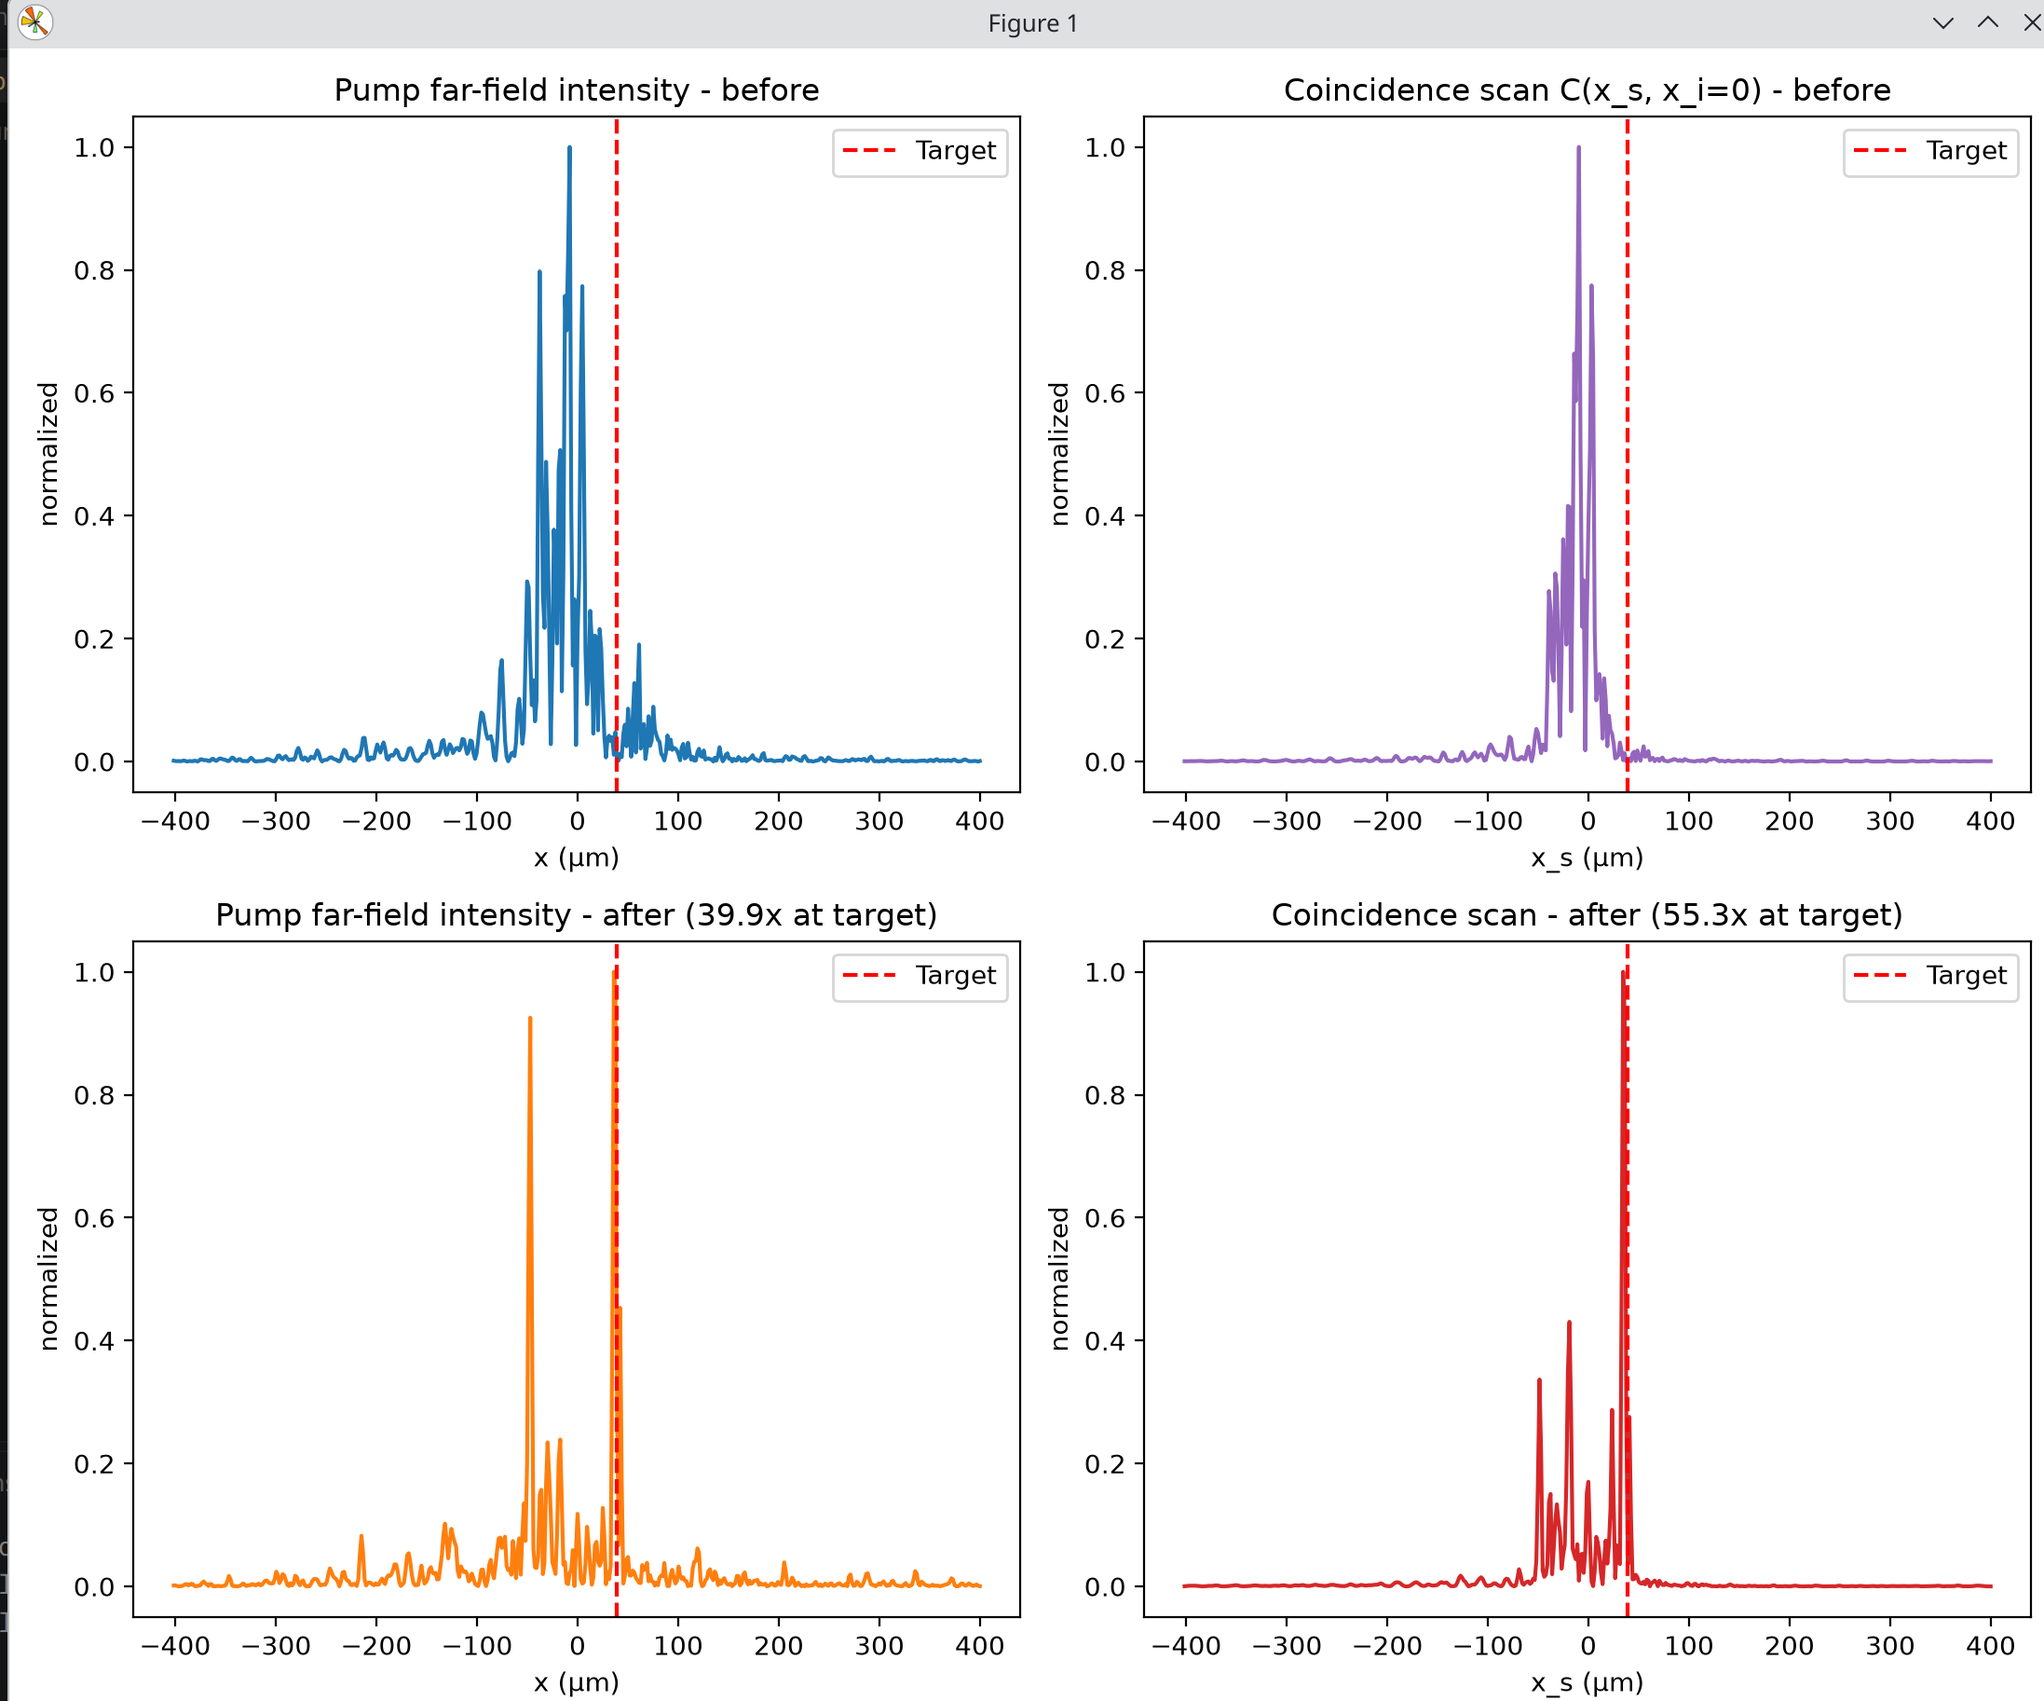
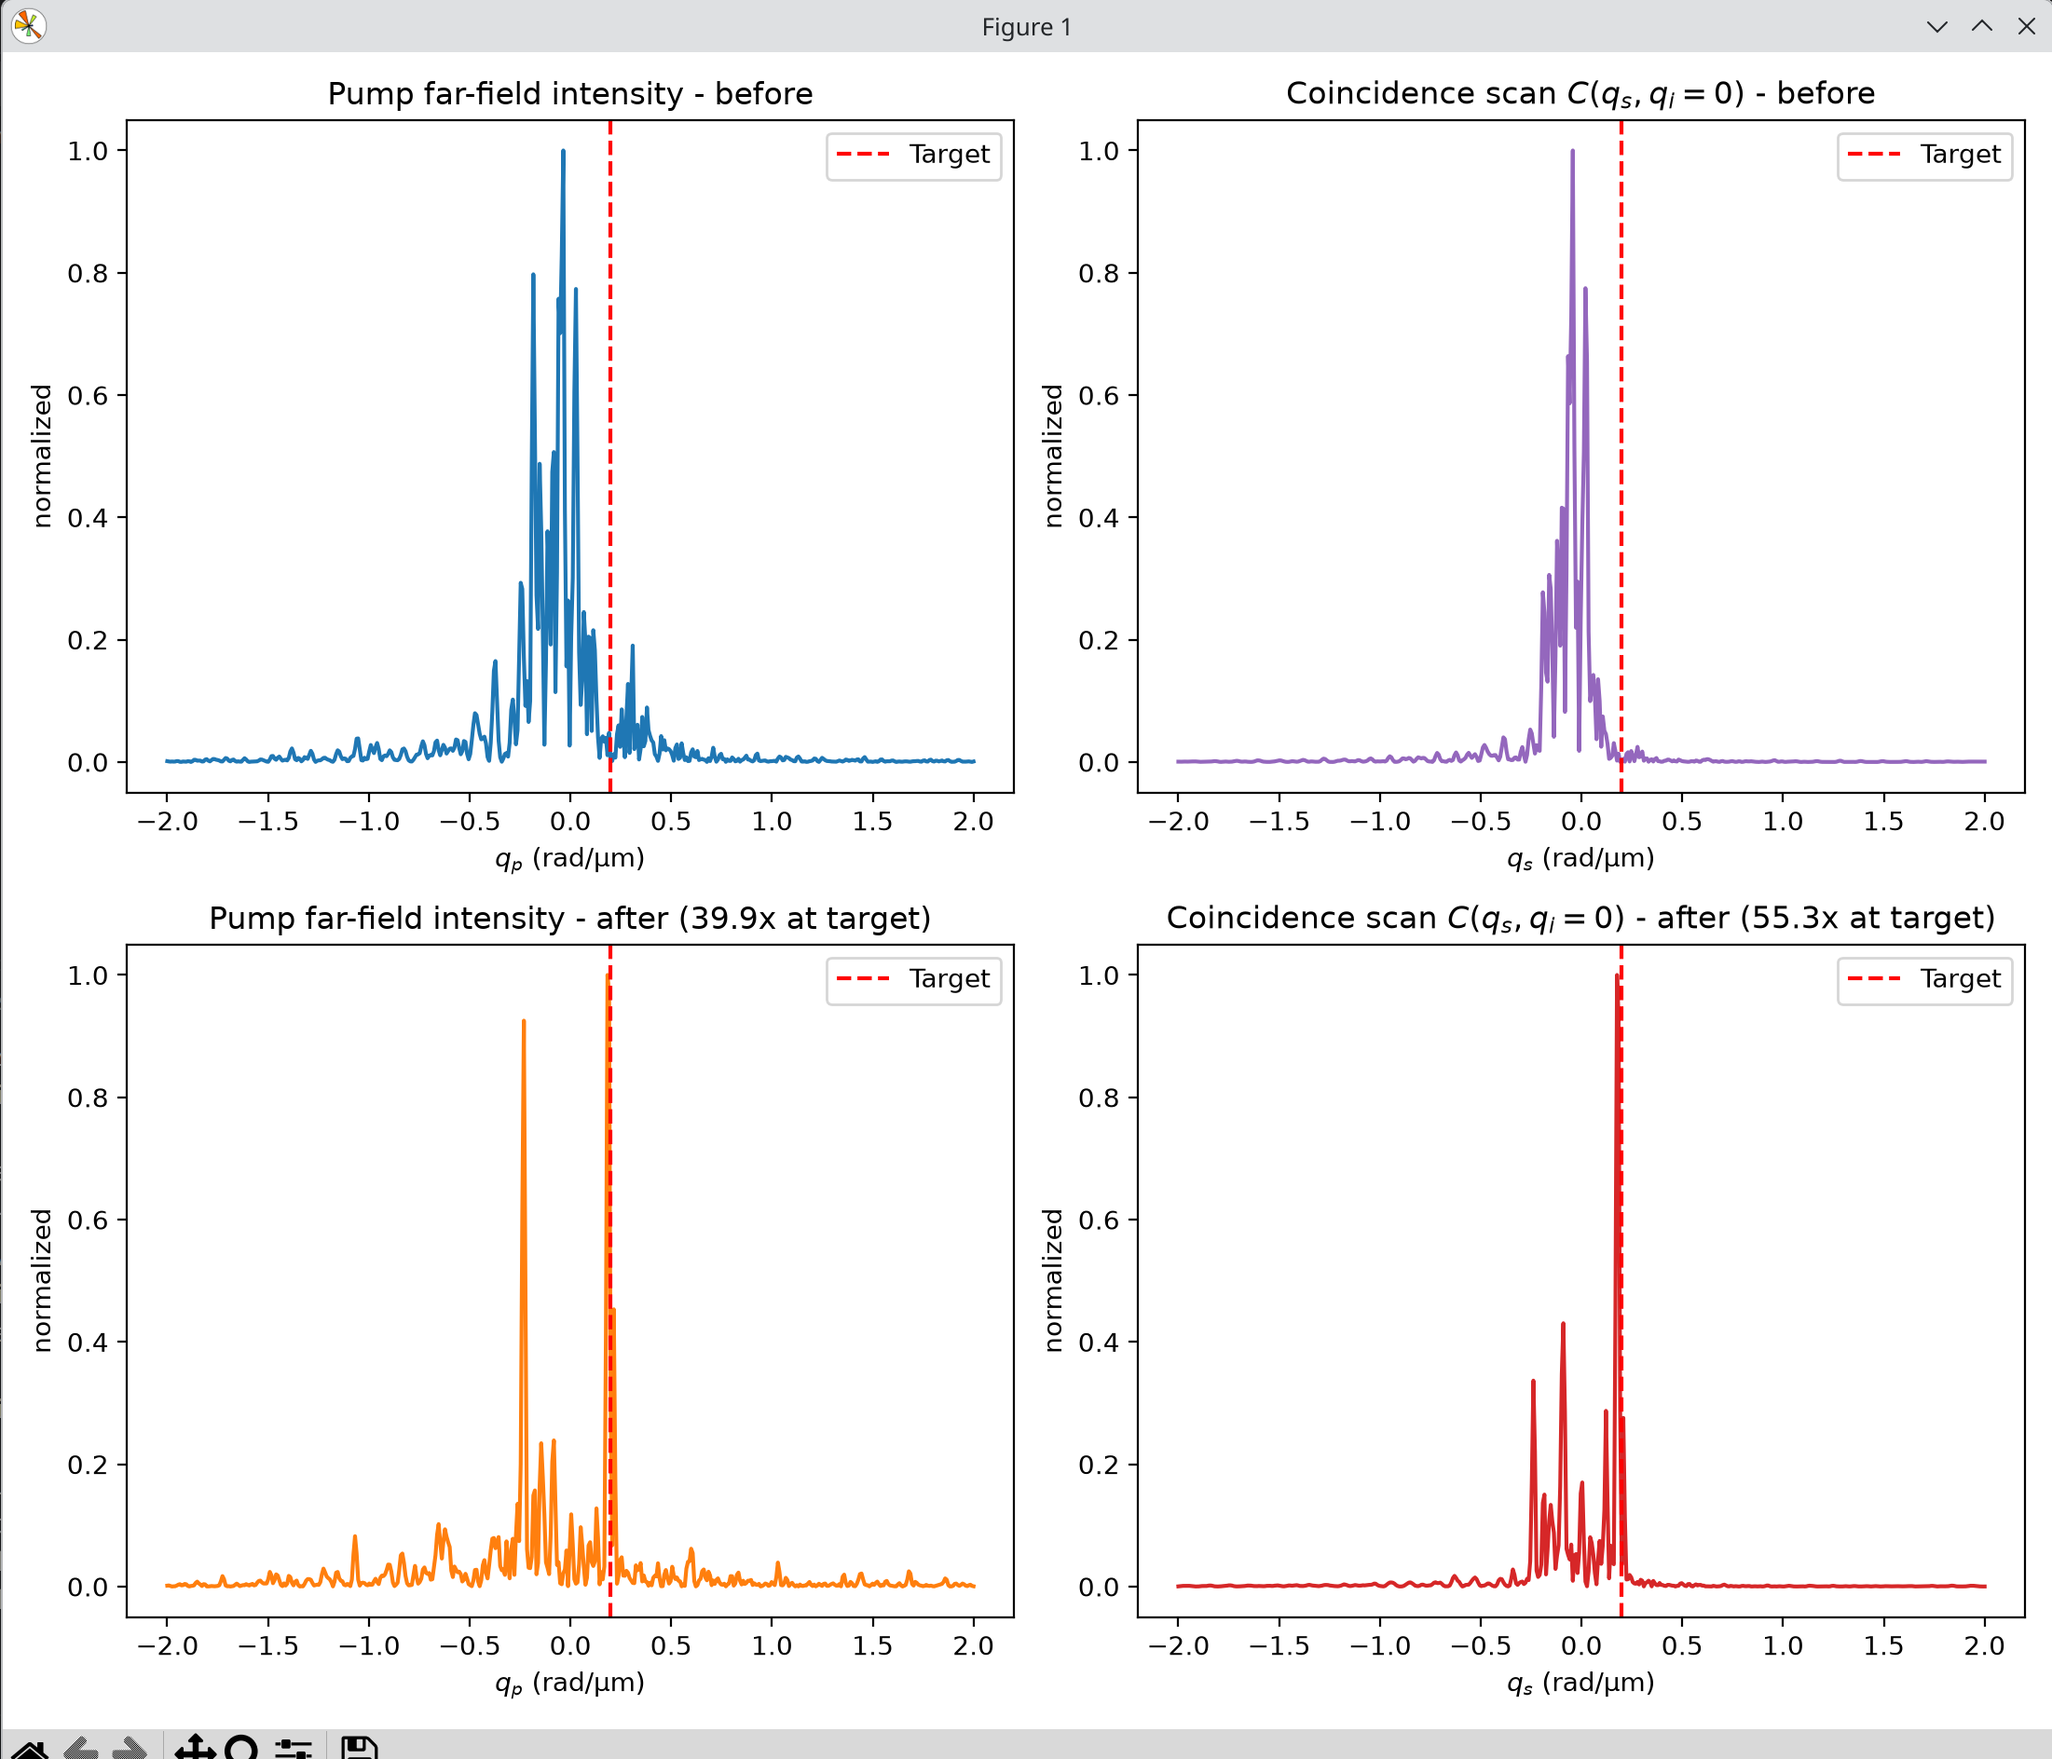
düzeltme

diff --git a/8-quantum-wavefront-shaping.py b/8-quantum-wavefront-shaping.py
@@ -126,10 +126,10 @@ print(f"Estimated 2D Schmidt number:  K = {K_numeric_1D**2:.0f} (Paper reports K
 # 8. WAVEFRONT-SHAPING OPTIMIZATION
 # ==============================================================================
 phi_slm    = np.zeros(n_seg)
-target_idx = N // 2 + 25                   # Hedef speckle konumu (~40 um)
+target_idx = N // 2 + 25                   # Hedef speckle momentumu q (~0.2 rad/um)
 sl = slice(target_idx - TARGET_WIN, target_idx + TARGET_WIN + 1)
 
-# Makaledeki sabit idler dedektörü konumu (x_i = 0):
+# Makaledeki sabit idler dedektörü: Uzak alanda optik eksen (q_i = 0):
 mid_idx = N // 2
 
 theta_scan  = np.linspace(0, 2 * np.pi, 6, endpoint=False)
@@ -158,7 +158,7 @@ for it in range(n_iter):
 
     pump_hist.append(pump_target_intensity(phi_slm, target_idx))
     
-    # Makaledeki gibi: Idler x_i = 0'da sabitken sinyal x_s taranır: C[:, mid_idx]
+    # Makaledeki gibi: Idler uzak alanda q_i = 0'da sabitken sinyal q_s taranır: C[:, mid_idx]
     if it % checkpoint == 0 or it == n_iter - 1:
         _, C, _ = simulate(phi_slm)
         coinc_scan = C[:, mid_idx]
@@ -184,37 +184,38 @@ print(f"Correlation coefficient (Pump vs Coincidence speckle): {corr:.2f}")
 # ==============================================================================
 # 9. FIGURES (MAKALEDEKİ DÜZENEKLE BİREBİR AYNI EKSENLER)
 # ==============================================================================
-x_um = x * 1e6
-target_x = x_um[target_idx]
+# Uzak alan momentum ekseni (rad / µm cinsinden):
+q_axis = k * 1e-6
+target_q = q_axis[target_idx]
 
 fig, axs = plt.subplots(2, 2, figsize=(11, 9))
 
 # Sol Üst: Pompa - Önce
-axs[0, 0].plot(x_um, I0 / I0.max(), lw=1.5)
-axs[0, 0].axvline(target_x, color="r", ls="--", lw=1.5, label="Target")
+axs[0, 0].plot(q_axis, I0 / I0.max(), lw=1.5)
+axs[0, 0].axvline(target_q, color="r", ls="--", lw=1.5, label="Target")
 axs[0, 0].set_title("Pump far-field intensity - before")
-axs[0, 0].set_xlabel("x (µm)"); axs[0, 0].set_ylabel("normalized")
+axs[0, 0].set_xlabel(r"$q_p$ (rad/µm)"); axs[0, 0].set_ylabel("normalized")
 axs[0, 0].legend()
 
-# Sağ Üst: Kuantum Çakışma Taraması C(x_s, x_i=0) - Önce
-axs[0, 1].plot(x_um, C0_scan / C0_scan.max(), color="tab:purple", lw=1.5)
-axs[0, 1].axvline(target_x, color="r", ls="--", lw=1.5, label="Target")
-axs[0, 1].set_title("Coincidence scan C(x_s, x_i=0) - before")
-axs[0, 1].set_xlabel("x_s (µm)"); axs[0, 1].set_ylabel("normalized")
+# Sağ Üst: Kuantum Çakışma Taraması C(q_s, q_i=0) - Önce
+axs[0, 1].plot(q_axis, C0_scan / C0_scan.max(), color="tab:purple", lw=1.5)
+axs[0, 1].axvline(target_q, color="r", ls="--", lw=1.5, label="Target")
+axs[0, 1].set_title(r"Coincidence scan $C(q_s, q_i=0)$ - before")
+axs[0, 1].set_xlabel(r"$q_s$ (rad/µm)"); axs[0, 1].set_ylabel("normalized")
 axs[0, 1].legend()
 
 # Sol Alt: Pompa - Sonra (ODAKLANMIŞ)
-axs[1, 0].plot(x_um, I1 / I1.max(), color="tab:orange", lw=1.5)
-axs[1, 0].axvline(target_x, color="r", ls="--", lw=1.5, label="Target")
+axs[1, 0].plot(q_axis, I1 / I1.max(), color="tab:orange", lw=1.5)
+axs[1, 0].axvline(target_q, color="r", ls="--", lw=1.5, label="Target")
 axs[1, 0].set_title(f"Pump far-field intensity - after ({pump_enh:.1f}x at target)")
-axs[1, 0].set_xlabel("x (µm)"); axs[1, 0].set_ylabel("normalized")
+axs[1, 0].set_xlabel(r"$q_p$ (rad/µm)"); axs[1, 0].set_ylabel("normalized")
 axs[1, 0].legend()
 
-# Sağ Alt: Kuantum Çakışma Taraması C(x_s, x_i=0) - Sonra (RECOVERED)
-axs[1, 1].plot(x_um, C1_scan / C1_scan.max(), color="tab:red", lw=1.5)
-axs[1, 1].axvline(target_x, color="r", ls="--", lw=1.5, label="Target")
-axs[1, 1].set_title(f"Coincidence scan - after ({coinc_enh:.1f}x at target)")
-axs[1, 1].set_xlabel("x_s (µm)"); axs[1, 1].set_ylabel("normalized")
+# Sağ Alt: Kuantum Çakışma Taraması C(q_s, q_i=0) - Sonra (RECOVERED)
+axs[1, 1].plot(q_axis, C1_scan / C1_scan.max(), color="tab:red", lw=1.5)
+axs[1, 1].axvline(target_q, color="r", ls="--", lw=1.5, label="Target")
+axs[1, 1].set_title(r"Coincidence scan $C(q_s, q_i=0)$ - after " + f"({coinc_enh:.1f}x at target)")
+axs[1, 1].set_xlabel(r"$q_s$ (rad/µm)"); axs[1, 1].set_ylabel("normalized")
 axs[1, 1].legend()
 
 plt.tight_layout()
